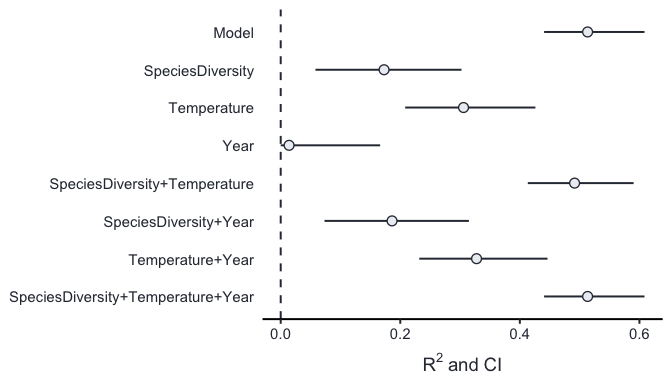
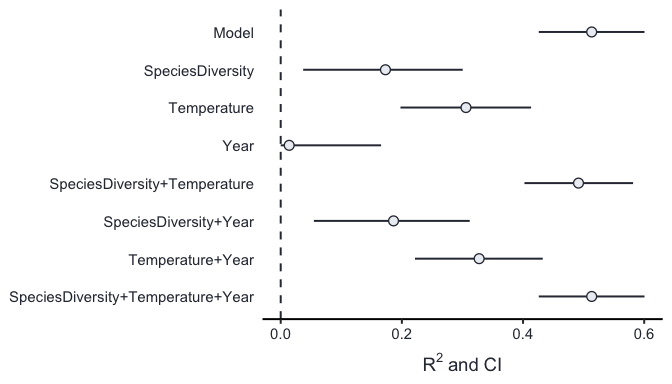
readme and version

diff --git a/README.md b/README.md
@@ -38,7 +38,13 @@ bugs.
 
 ## Installation
 
-You can install the development version of `partR2` from GitHub with:
+You can install the stable version of `partR2` from CRAN with:
+
+``` r
+install.packages("partR2")
+```
+
+Or the development version from GitHub with:
 
 ``` r
 # install.packages("remotes")
@@ -67,20 +73,20 @@ mod <- lmer(Biomass ~  Year + Temperature + SpeciesDiversity + (1|Population),
 #> 
 #> R2 (marginal) and 95% CI for the full model: 
 #>  R2     CI_lower CI_upper nboot ndf
-#>  0.5133 0.4405   0.6085   100   4  
+#>  0.5133 0.426    0.6005   100   4  
 #> 
 #> ----------
 #> 
 #> Part (semi-partial) R2:
 #>  Predictor(s)                      R2     CI_lower CI_upper nboot ndf
-#>  Model                             0.5133 0.4405   0.6085   100   4  
-#>  SpeciesDiversity                  0.1729 0.0581   0.3024   100   3  
-#>  Temperature                       0.3058 0.2082   0.4260   100   3  
-#>  Year                              0.0140 0.0000   0.1663   100   3  
-#>  SpeciesDiversity+Temperature      0.4916 0.4133   0.5903   100   2  
-#>  SpeciesDiversity+Year             0.1862 0.0732   0.3148   100   2  
-#>  Temperature+Year                  0.3276 0.2318   0.4463   100   2  
-#>  SpeciesDiversity+Temperature+Year 0.5133 0.4405   0.6085   100   1
+#>  Model                             0.5133 0.4260   0.6005   100   4  
+#>  SpeciesDiversity                  0.1729 0.0371   0.3005   100   3  
+#>  Temperature                       0.3058 0.1977   0.4133   100   3  
+#>  Year                              0.0140 0.0000   0.1657   100   3  
+#>  SpeciesDiversity+Temperature      0.4916 0.4023   0.5817   100   2  
+#>  SpeciesDiversity+Year             0.1862 0.0547   0.3120   100   2  
+#>  Temperature+Year                  0.3276 0.2216   0.4325   100   2  
+#>  SpeciesDiversity+Temperature+Year 0.5133 0.4260   0.6005   100   1
 ```
 
 And to plot the results:

diff --git a/NEWS.md b/NEWS.md
@@ -1,3 +1,6 @@
+# partR2 0.9.2
+
+
 # partR2 0.9.1
 
 * data argument is now optional.
